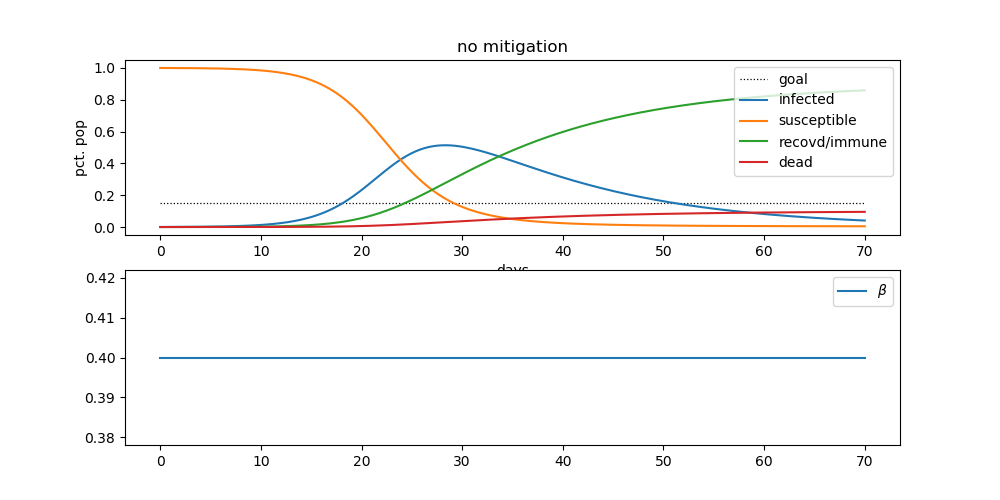
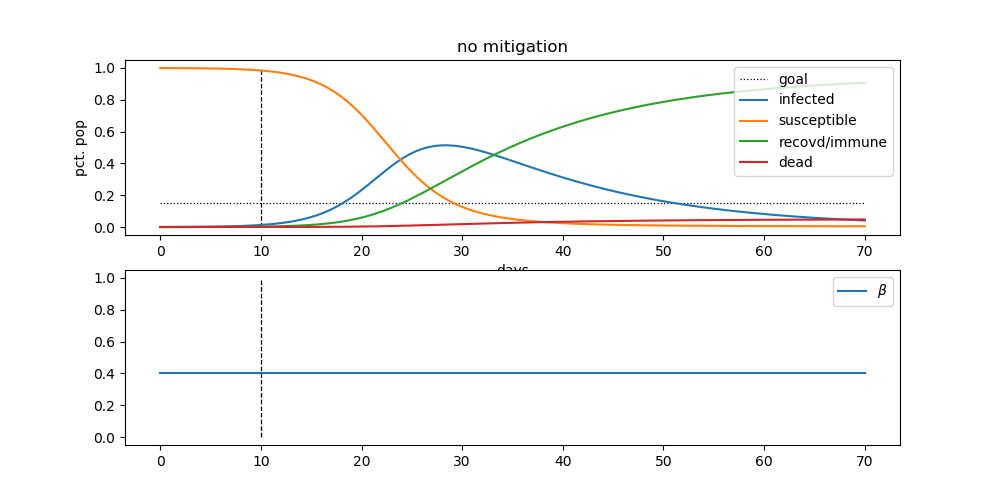
updated readme

diff --git a/run_min_sigma_sq.py b/run_min_sigma_sq.py
@@ -39,29 +39,26 @@ phase.add_state('sum_beta', rate_source='beta_trigger.filtered_timescaled', defe
 
 p.driver = pyOptSparseDriver()
 p.driver.options['optimizer'] = 'SNOPT'
-p.driver.opt_settings['Major feasibility tolerance'] = 1.0E-8
-p.driver.opt_settings['Major optimality tolerance'] = 1.0E-5
+#p.driver.opt_settings['Major feasibility tolerance'] = 1.0E-8
+#p.driver.opt_settings['Major optimality tolerance'] = 1.0E-5
 p.driver.opt_settings['iSumm'] = 6
 
 p.driver.declare_coloring()
 
 #phase.add_path_constraint('N', units='pax', equals=pop_total, scaler=1e-2)
 lim = 0.15
-phase.add_path_constraint('infected', units='pax', upper=lim * pop_total, scaler=10)
+phase.add_path_constraint('infected', units='pax', upper=lim * pop_total, ref=lim*pop_total)
 
 phase.add_control('beta', targets=['beta_trigger.signal'], lower=0.1, upper=0.4, ref=0.4)
 
 #phase.add_polynomial_control('beta', targets=['beta_trigger.signal'], lower=0.1, upper=0.4, order=1)
 
-phase.add_boundary_constraint('infected', loc='final', upper=infected0)
-phase.add_objective('sum_beta', loc='final', ref=1.0e3)
+phase.add_boundary_constraint('infected', loc='final', upper=2*infected0, ref=infected0)
+phase.add_objective('sum_beta', loc='final', ref=20.0)
 
 
 traj.add_phase(name='phase0', phase=phase)
 p.setup(check=True)
-
-# start with 10 susceptible, 1 infected, 0 recovered
-# interpolate to expected end condition: all 11 recovered
 
 p.set_val('traj.phase0.t_initial', 0)
 p.set_val('traj.phase0.t_duration', 300)
@@ -96,17 +93,17 @@ except:
         beta = sim_out.get_val('traj.phase0.timeseries.polynomial_controls:beta')
     except:
         beta = np.ones(t.shape) * 0.4
-#beta = sim_out.get_val('traj.phase0.rhs_col.covid19.beta_pass')
 
-
+print("objective:", bs[-1])
+#print(beta[-1])
 # for iii in range(len(i)):
 #   print(t[iii], i[iii])
 
 fig = plt.figure(figsize=(10, 5))
 plt.subplot(211)
-plt.title('mitigation beginning t=20.0')
+plt.title('mitigation starting t = 10.0')
 plt.plot(t, len(t) * [lim], 'k:', linewidth=0.9, label='goal')
-plt.plot([20,20], [0, 1], 'k--', linewidth=0.9)
+plt.plot([10,10], [0, 1], 'k--', linewidth=0.9)
 plt.plot(t, i/pop_total, label='infected')
 plt.plot(t, s/pop_total, label='susceptible')
 plt.plot(t, r/pop_total, label='recovd/immune')
@@ -116,7 +113,7 @@ plt.ylabel('pct. pop')
 plt.legend(loc=1)
 
 plt.subplot(212)
-plt.plot([20,20], [0, 1], 'k--', linewidth=0.9)
+plt.plot([10,10], [0, 1], 'k--', linewidth=0.9)
 plt.plot(t, beta, label='$\\beta$')
 plt.legend()
 plt.show()

diff --git a/trigger_comp.py b/trigger_comp.py
@@ -3,28 +3,23 @@ from openmdao.api import ExplicitComponent
 
 
 
-import matplotlib.pyplot as plt
+# import matplotlib.pyplot as plt
 
-n=100
+# n=300
 
-t = np.linspace(0, 10, n)
+# t = np.linspace(0, 300, n)
 
-default_val = 0.4
-signal = np.linspace(0.4, 0.0, n)**1.5
-t_trigger = 5
+# default_val = 0.6
+# signal = np.linspace(0.0, 0.6, n)
+# t_trigger = 10
 
-a = 30
+# a = 10
 
-y = 1 / (1 + np.exp(-a*(t - t_trigger)))
+# y = 1 / (1 + np.exp(-a*(t - t_trigger)))
 
-fig = plt.figure(figsize=(10, 5))
-plt.title("Time-based trigger of $\\sigma$ at t = 5")
-plt.plot(signal*y + (1 - y) * default_val, label="$\\theta$", linewidth=5)
-plt.plot(signal, label="$\\sigma$")
-plt.plot(n * [default_val], label="$\\beta$")
-plt.legend()
-plt.show()
-quit()
+# plt.plot(signal*y + (1 - y) * default_val)
+# plt.show()
+# quit()
 
 class EventTrigger(ExplicitComponent):
     """ Reduces signal?
@@ -52,7 +47,7 @@ class EventTrigger(ExplicitComponent):
                        desc='trigger time')
 
         self.add_input('a',
-                       val=20.0,
+                       val=10.0,
                        desc='scale parameter')
 
         self.add_output('filtered',
@@ -79,6 +74,8 @@ class EventTrigger(ExplicitComponent):
 
         outputs['filtered'] = filtered
         outputs['filtered_timescaled'] = (default_val - signal)**2
+
+        #print(np.sum(outputs['filtered_timescaled'] ))
 
     def compute_partials(self, inputs, jacobian):
         t, t_trigger, signal, a, default_val = inputs['t'], inputs['t_trigger'], inputs['signal'], inputs['a'], inputs['default_val']
@@ -130,6 +127,5 @@ if __name__ == '__main__':
 
 
     plt.show()
-
 
 

diff --git a/infection.py b/infection.py
@@ -186,4 +186,3 @@ if __name__ == '__main__':
 
     p.check_partials(compact_print=True, method='cs')
 
-

diff --git a/readme.md b/readme.md
@@ -3,9 +3,13 @@
 MDAO-Based Pandemic Countermeasure Optimization
 ========================================================
 
-A Python-based set of tools for pandemic modeling with analytic derivatives, which allows for the numerical optimization of infectious disease mitigation techniques (social distancing, etc.). The aim is to provide a set of tools to help inform or derive localized policy decisions relating to the spread of illnesses such as COVID-19. This will include prognostics of infection magnitude and health care service capacity planning.
+A Python-based set of tools for pandemic modeling with analytic derivatives, which allows for the numerical optimization of infectious disease mitigation techniques (social distancing, etc.). The aim is to provide a set of tools to help inform or derive localized policy decisions relating to the spread of illnesses such as COVID-19. This will include prognostics of infection magnitude and health care service capacity planning. 
 
-NOTE: We are by no means infectious disease experts, but rather pracitioners of numerical optimization and simulation of multidisciplinary systems.
+By adapting methods of optimizing large systems of coupled dynamical multidisciplinary systems commonly used in aerospace to the study of infectious diseases, we hope to introduce a novel analysis capability.
+
+Developed using the dynamical systems optimization framework [Dymos](https://openmdao.github.io/dymos/), within the [OpenMDAO](https://openmdao.org/) Multidisciplinary Analysis and Optimization environment.
+
+NOTE: We are by no means infectious disease experts, but rather pracitioners of numerical optimization and multidisciplinary systems analysis.
 
 Background
 ===========
@@ -19,7 +23,7 @@ where `S`, `I`, and `R` represent the number of susceptible, infected, and recov
 Adaptation of SIR model for optimal control
 ===============================
 
-In order to represent this system in a form that can be analyzed in a system optimization context applicable to general infectious diseases, let us consider a dynamic optimization control `sigma(t)` to temporally reduce the natural contact rate of the disease `beta`, representing the application of social policies (such as Social Distancing measures).
+In order to represent this system in a form that can be analyzed in a system optimization context applicable to general infectious diseases, let us consider a dynamic optimization control `sigma(t)` to temporally reduce the natural contact rate of the disease `beta`, representing the application of mitigation policies (such as [Social Distancing](https://en.wikipedia.org/wiki/Social_distancing) measures).
 
 Let us also more carefully consider the resolution of an infected individual, as one of two possibilities: recovery with immunity (i.e. assumption of a "recovered" state), or death `D`, an additional category of the model to be tracked and integrated. Let `gamma / T_inf.` be the recovery rate of the disease, divided by the average duration of the infection, which complimentary defines the mortality as `(1 - gamma) / T_inf.`. 
 
@@ -69,7 +73,7 @@ When run, this establishes the baseline situation under the given parameters as:
 This indicates a peak infection rate of over half the total population under consideration, around time `t = 28 (days)`.
 
 Now, allowing for dynamic optimization representing social distancing implementation, let's optimize the scenario with respect to `sigma(t)` in order to flatten the infection curve below 15% of the population total at peak. Specifically, let's aim to find (in some sense) the least amount of mitigation necessary to reach this target. To do this, we can minimize the sum of the square of the mitigation vector `sigma(t)`.
-We also specify that mitigation must begin only after `t=20.0`, to study the effect of lagging the mitigation policy.
+We also specify that mitigation must begin only after `t_0 = 10.0`, to study the effect of lagging the mitigation policy. For `theta(t)`, we set a smoothness constant of `a = 10.0`
 
 
 Following this, we get the formulation:
@@ -89,10 +93,11 @@ Running this gives the solution:
 
 ![alt text](images/Figure_2.png "With mitigation")
 
-indicating successful flattening of the infection curve below the specified target.
+indicating successful flattening of the infection curve below the specified target, using a social distance infection mitigation strategy lasting around 65 days.
 
 Next steps 
 ===========
+- Reversed problem formulation: Implement example to directly minimize infection peak, placing constraints on mitigation strength.
 - Derivation of critical patient category, including hospitalized ICU versus unhospitalized categories
 - Finer detailed calculation of the `sigma(t)` control parameter relating to social policy
 - Calibration with real-world date related to the spread of COVID-19
